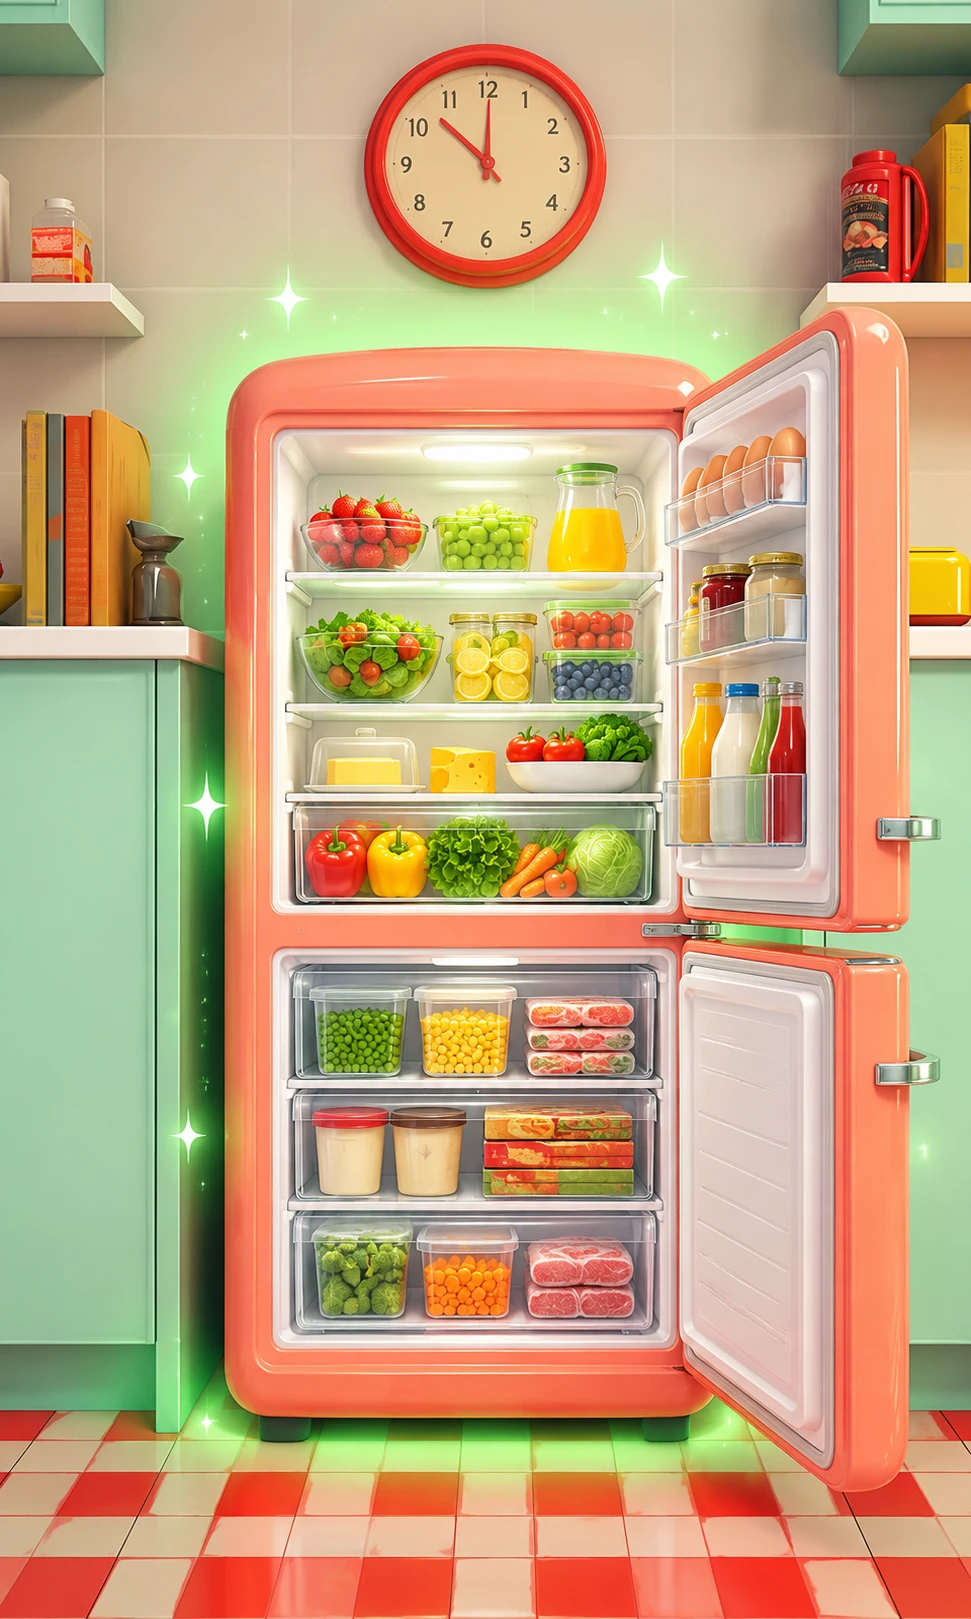
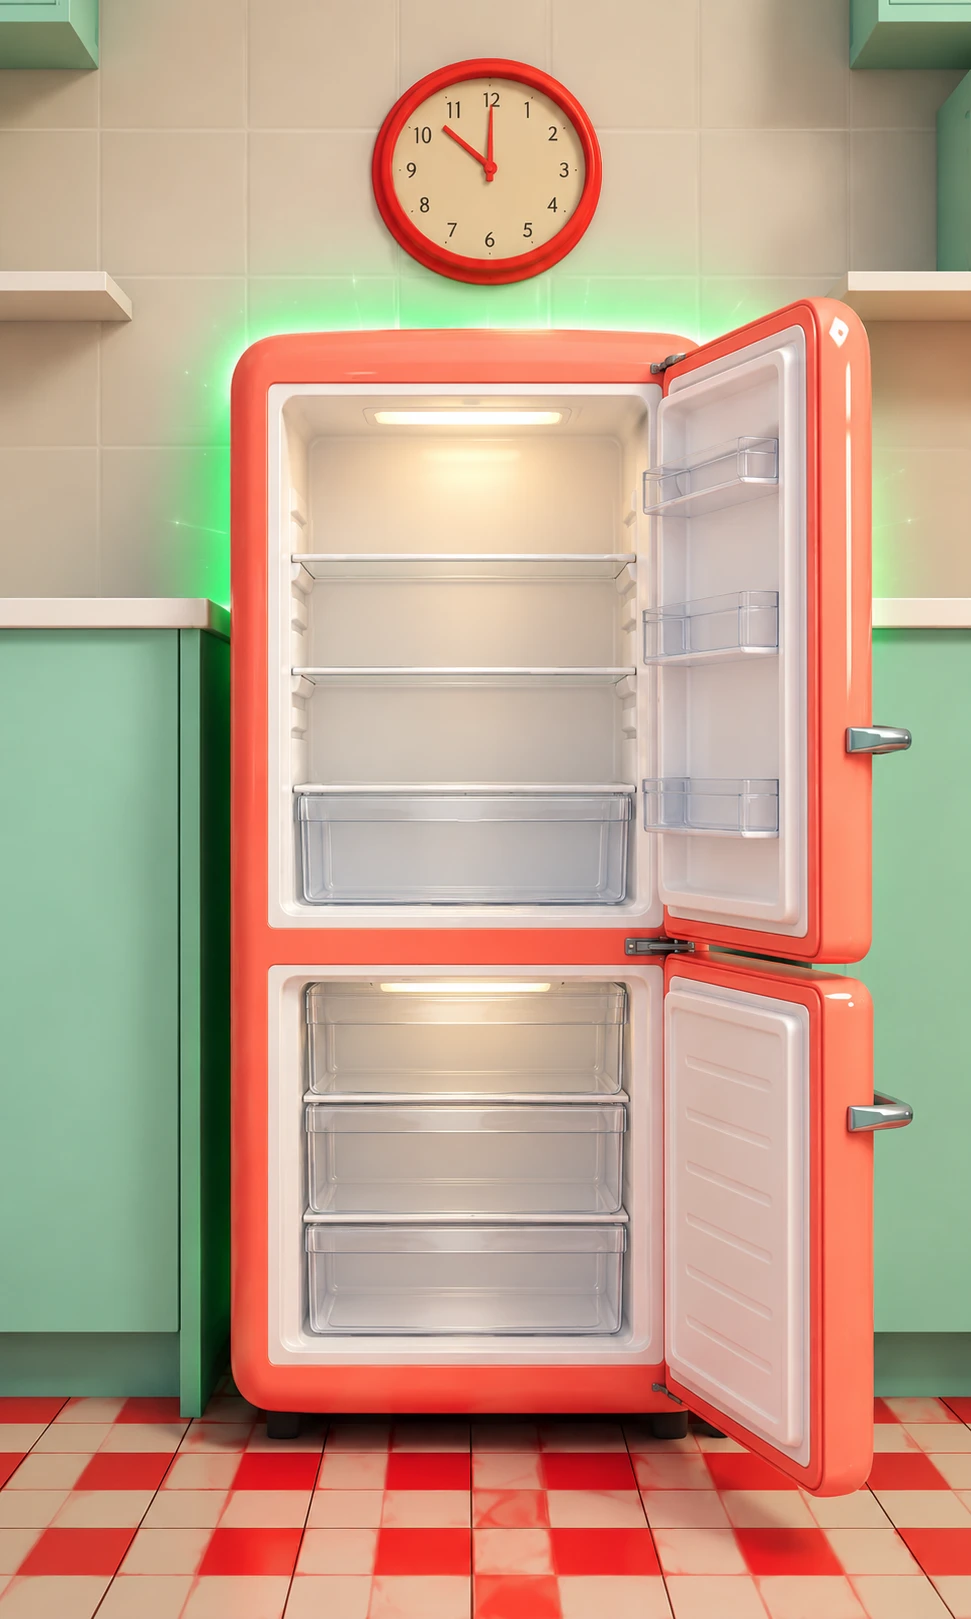
Use empty open-fridge photos and re-map shelf zones
Replace the open-fridge renders with versions that have empty shelves,
drawers and door bins, and re-measure the zones in src/scene.js so
products sit on the glass shelves, in the crisper, on the door bins and
in the freezer drawers of each photo.

Claude-Session: https://claude.ai/code/session_013fKg3ErapELREDrrT9TSg3

diff --git a/src/scene.js b/src/scene.js
@@ -3,43 +3,43 @@
 // Кожен настрій має своє фото, тому й зони трохи різні.
 export const ZONES = {
   neutral: {
-    dairy: [30.28, 27.18, 35.02, 7.72],
-    meat: [30.28, 35.52, 35.02, 6.05],
-    grain: [30.28, 42.0, 35.02, 6.79],
-    veg: [31.1, 49.23, 16.89, 6.55],
-    fruit: [48.2, 49.23, 16.89, 6.55],
-    "door-1": [66.84, 25.63, 13.7, 5.25],
-    "door-2": [66.84, 33.17, 13.7, 9.14],
-    "door-3": [66.84, 45.4, 13.7, 6.3],
-    "freezer-1": [31.51, 60.96, 32.96, 6.55],
-    "freezer-2": [31.51, 68.38, 32.96, 6.55],
-    "freezer-3": [31.51, 75.79, 32.96, 6.55],
+    dairy: [31.41, 27.67, 33.47, 6.49],
+    meat: [31.41, 35.33, 33.47, 5.81],
+    grain: [31.41, 42.37, 33.47, 5.93],
+    veg: [31.41, 49.23, 16.68, 6.24],
+    fruit: [48.3, 49.23, 16.58, 6.24],
+    "door-1": [66.63, 25.94, 13.7, 5.87],
+    "door-2": [66.63, 34.71, 13.7, 5.81],
+    "door-3": [66.63, 45.52, 13.7, 5.62],
+    "freezer-1": [31.72, 61.15, 32.34, 6.18],
+    "freezer-2": [31.72, 68.31, 32.34, 6.18],
+    "freezer-3": [31.72, 75.66, 32.34, 6.36],
   },
   sad: {
-    dairy: [30.28, 27.49, 33.99, 7.1],
-    meat: [30.28, 35.21, 33.99, 5.87],
-    grain: [30.28, 41.57, 33.99, 3.95],
-    veg: [30.48, 46.14, 16.48, 6.18],
-    fruit: [47.58, 46.14, 16.48, 6.18],
-    "door-1": [67.15, 25.02, 16.48, 8.34],
-    "door-2": [67.15, 35.52, 16.48, 8.65],
-    "door-3": [67.15, 45.71, 16.48, 8.34],
-    "freezer-1": [30.48, 56.95, 32.54, 7.29],
-    "freezer-2": [30.48, 64.67, 32.54, 6.98],
-    "freezer-3": [30.48, 72.08, 32.54, 6.86],
+    dairy: [31.41, 27.67, 33.47, 7.04],
+    meat: [31.41, 35.89, 33.47, 5.44],
+    grain: [31.41, 42.56, 33.47, 5.25],
+    veg: [31.41, 48.92, 16.68, 6.55],
+    fruit: [48.3, 48.92, 16.58, 6.55],
+    "door-1": [66.63, 25.51, 13.9, 5.74],
+    "door-2": [66.63, 34.47, 13.9, 5.19],
+    "door-3": [66.63, 45.21, 13.9, 5.56],
+    "freezer-1": [31.72, 61.15, 32.75, 6.3],
+    "freezer-2": [31.72, 68.19, 32.75, 6.67],
+    "freezer-3": [31.72, 75.48, 32.75, 6.55],
   },
   happy: {
-    dairy: [30.28, 28.41, 37.59, 7.1],
-    meat: [30.28, 36.13, 37.59, 7.41],
-    grain: [30.28, 44.16, 37.59, 4.94],
-    veg: [30.48, 49.85, 18.33, 5.74],
-    fruit: [49.02, 49.85, 18.33, 5.74],
-    "door-1": [68.9, 26.25, 13.9, 6.92],
-    "door-2": [68.9, 34.4, 13.9, 6.36],
-    "door-3": [68.9, 41.69, 13.9, 10.5],
-    "freezer-1": [30.48, 60.04, 37.08, 6.36],
-    "freezer-2": [30.48, 67.45, 37.08, 6.67],
-    "freezer-3": [30.48, 75.17, 37.08, 6.98],
+    dairy: [31.41, 27.67, 33.47, 6.49],
+    meat: [31.41, 35.33, 33.47, 5.81],
+    grain: [31.41, 42.37, 33.47, 5.93],
+    veg: [31.41, 49.23, 16.68, 6.24],
+    fruit: [48.3, 49.23, 16.58, 6.24],
+    "door-1": [66.43, 25.51, 13.7, 5.87],
+    "door-2": [66.43, 34.71, 13.7, 5.81],
+    "door-3": [66.43, 45.83, 13.7, 5.56],
+    "freezer-1": [31.72, 61.15, 32.34, 6.05],
+    "freezer-2": [31.72, 68.19, 32.34, 6.42],
+    "freezer-3": [31.72, 75.73, 32.34, 6.3],
   },
 };
 
